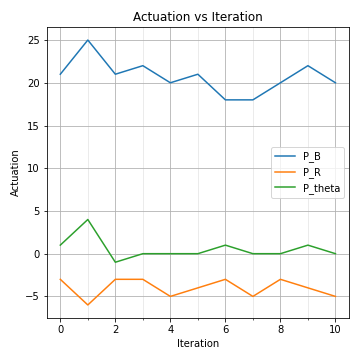
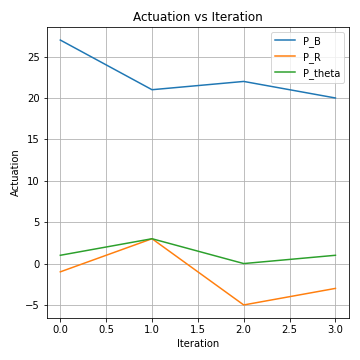
Test1 3 Plots

diff --git a/vis.py b/vis.py
@@ -12,7 +12,7 @@ import matplotlib.pyplot as plt
 from PIL import Image
 from skimage import img_as_float
 
-from skimage.measure import compare_mse
+from skimage.metrics import mean_squared_error
 
 def plot_actuation(iterations, actuation_data, results_path):
     
@@ -68,16 +68,20 @@ def plot_mse_error(current_images_path, final_image_path, results_path):
         
         print(x)
         
-        mse = compare_mse(img_as_float(img1), img_as_float(img_final))
+        mse = mean_squared_error(img_as_float(img1), img_as_float(img_final))
         
         mse_list.append(mse)
         
     
-    fig, ax = plt.subplots(1, 1, figsize=(10, 5)) 
+    fig, ax = plt.subplots(1, 1, figsize=(5, 5)) 
     
     plt.plot(iterations, mse_list)
     
     ax.grid()
+    ax.set_xticks(iterations)
+    
+    ax.grid(which="major", alpha=0.6)
+    
     ax.set_xlabel('Iteration')
     ax.set_ylabel('MSE')
     ax.set_title('MSE vs Iteration')  
@@ -88,18 +92,16 @@ def plot_mse_error(current_images_path, final_image_path, results_path):
     
 
 
-
-
-
-
 path = 'test1/'
+actuation_data = np.array([[27, -1, 1.],
+                           [21, 3, 3], 
+                           [22, -5, 0],
+                           [20, -3, 1]])
 
-results_path = os.path.join('images/', path, 'results/')
+         
+'''
 
-if not os.path.exists(results_path):
-    os.makedirs(results_path)
-    
-
+path = 'test2/'
 actuation_data = np.array([[21, -3, 1], 
                            [25, -6, 4.], 
                            [21, -3, -1.], 
@@ -111,6 +113,15 @@ actuation_data = np.array([[21, -3, 1],
                            [20,-3,0.],
                            [22, -4, 1.],
                            [20, -5, 0]])
+
+'''
+
+results_path = os.path.join('images/', path, 'results/')
+
+if not os.path.exists(results_path):
+    os.makedirs(results_path)
+    
+
 
 
 images_path = os.path.join('images/', path)
